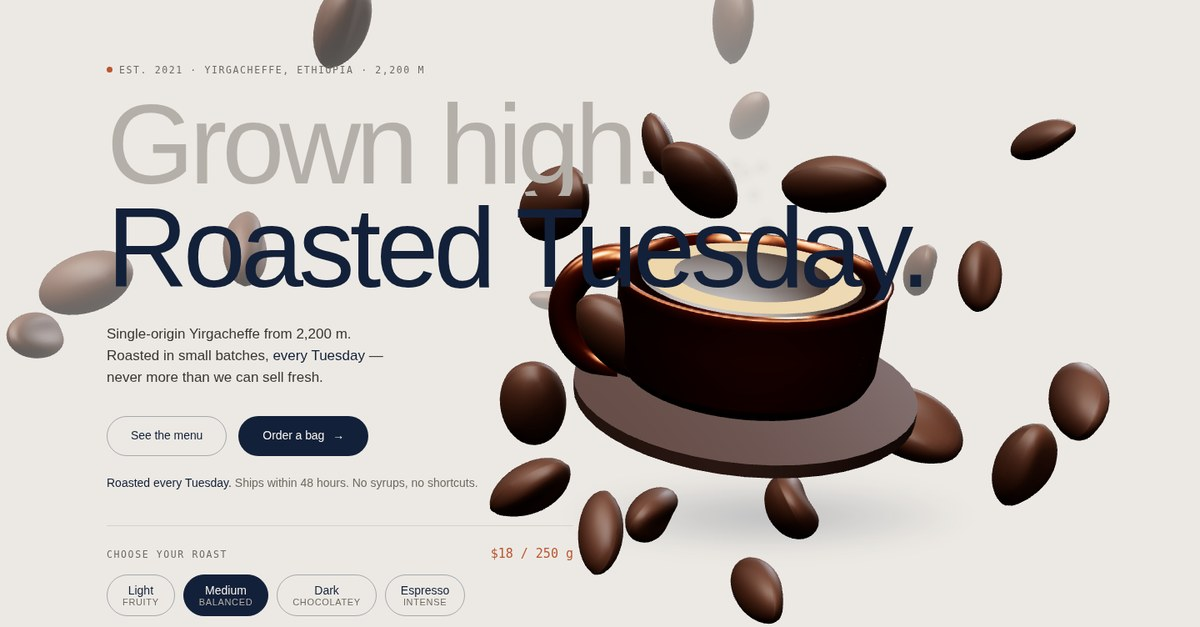
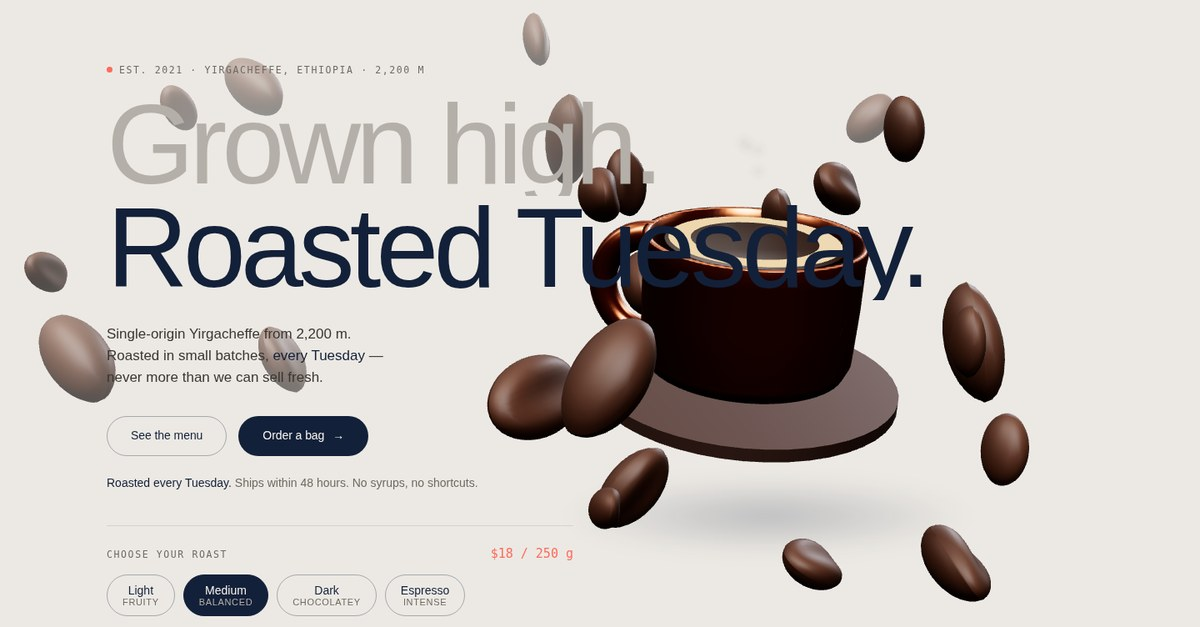
Aurora Coffee v9.1 — coral accent + taller mug + side-on macro + desktop carousel

diff --git a/index.html b/index.html
@@ -14,11 +14,11 @@
     <link rel="preconnect" href="https://fonts.gstatic.com" crossorigin />
     <link href="https://fonts.googleapis.com/css2?family=Inter:wght@400;500;600&family=JetBrains+Mono:wght@500&display=swap" rel="stylesheet" />
     <style>
-      /* Aurora Coffee v8 — light premium (MotionSites SkyElite + Claude design system).
-         60/30/10 COLOUR COMBINATION (Diego Aranda rule, Fahad's banner palette):
-         60% warm cream #ECE9E4 · 30% deep navy #132039 · 10% burnt copper #BC5530.
-         The navy is a real colour (not just black), the copper is the warm accent,
-         and the 3D mug IS the copper accent. */
+      /* Aurora Coffee v9 — light premium (MotionSites SkyElite + Claude design system).
+         60/30/10 COLOUR COMBINATION (Diego Aranda reel, Fahad's banner palette):
+         60% warm cream #ECE9E4 · 30% deep navy #132039 · 10% coral #FF6A5C.
+         The navy is a real colour (not just black), the coral is the warm accent.
+         The 3D mug is copper METAL (its material, not the UI accent). */
       :root {
         --bg: #ECE9E4;          /* 60% — warm cream field */
         --surface: #F5F3EF;     /* 60% — card / matted frame */
@@ -27,7 +27,7 @@
         --h1-dark: #132039;     /* 30% — deep navy (headline line 2, ink, dark panels) */
         --body: #3A352F;        /* 30% — body text */
         --muted: #6F6962;       /* 30% — eyebrows, captions */
-        --accent: #BC5530;      /* 10% — burnt copper, the warm accent */
+        --accent: #FF6A5C;      /* 10% — coral (Diego Aranda reel / Fahad's banner palette) */
         --line: #D6D1C9;        /* hairlines */
         --line-strong: #C4BEB4;
         --btn-solid: #132039;   /* 30% — deep navy solid buttons */
@@ -179,9 +179,9 @@
          sideways (scroll-snap) and the card nearest the centre grows. */
       .beans-row { display: flex; gap: 20px; margin-top: 56px; overflow-x: auto; scroll-snap-type: x mandatory; padding: 8px 4px 24px; scrollbar-width: none; -webkit-overflow-scrolling: touch; }
       .beans-row::-webkit-scrollbar { display: none; }
-      .bean-card { background: var(--surface); border: 1px solid var(--line); border-radius: 24px; padding: 28px; flex: 0 0 300px; scroll-snap-align: center; transition: transform 500ms var(--ease-hover), box-shadow 500ms var(--ease-hover), border-color 500ms var(--ease-hover); }
+      .bean-card { background: var(--surface); border: 1px solid var(--line); border-radius: 24px; padding: 28px; flex: 0 0 340px; scroll-snap-align: center; transition: transform 500ms var(--ease-hover), box-shadow 500ms var(--ease-hover), border-color 500ms var(--ease-hover); }
       .bean-card.is-centre { transform: scale(1.04); box-shadow: 0 24px 48px -24px rgba(19, 32, 57, 0.35); border-color: rgba(19, 32, 57, 0.35); }
-      .beans-row .photo-frame { flex: 0 0 300px; scroll-snap-align: center; }
+      .beans-row .photo-frame { flex: 0 0 340px; scroll-snap-align: center; }
       .carousel-dots { display: flex; justify-content: center; gap: 8px; margin-top: 4px; }
       .carousel-dots .dot { width: 6px; height: 6px; border-radius: 50%; background: var(--line-strong); transition: background 400ms var(--ease-out), transform 400ms var(--ease-out); }
       .carousel-dots .dot.on { background: var(--accent); transform: scale(1.4); }
@@ -524,39 +524,41 @@
         scene.add(rim);
         scene.add(new THREE.HemisphereLight(0xFFFFFF, 0xCFC6BA, 0.35));
 
-        /* ---- The mug — METAL copper (not ceramic), huge and side-on ---- */
+        /* ---- The mug — METAL copper (not ceramic), huge and side-on.
+           v9.1: TALLER and NARROWER (was 0.58 tall / 1.48 wide — read as a bowl
+           from the top-down macro view). Now 0.75 tall / 1.20 wide — a proper mug. ---- */
         var cupGroup = new THREE.Group();
         var ceramic = new THREE.MeshPhysicalMaterial({ color: 0xB8683F, metalness: 1, roughness: 0.28, clearcoat: 0.3, clearcoatRoughness: 0.2, envMapIntensity: 1.2 });
         var cupPts = [
-          [0.0, 0.0], [0.55, 0.0], [0.68, 0.03], [0.71, 0.10], [0.72, 0.35], [0.72, 0.52],
-          [0.74, 0.58], [0.70, 0.58], [0.68, 0.50], [0.66, 0.25], [0.60, 0.10], [0.45, 0.06], [0.0, 0.06]
+          [0.0, 0.0], [0.46, 0.0], [0.55, 0.03], [0.58, 0.10], [0.59, 0.40], [0.59, 0.65],
+          [0.60, 0.75], [0.56, 0.75], [0.54, 0.65], [0.52, 0.35], [0.48, 0.12], [0.38, 0.08], [0.0, 0.08]
         ].map(function (p) { return new THREE.Vector2(p[0], p[1]); });
         cupGroup.add(new THREE.Mesh(new THREE.LatheGeometry(cupPts, 64), ceramic));
 
         var coaster = new THREE.Mesh(
-          new THREE.CylinderGeometry(0.95, 0.95, 0.07, 48),
+          new THREE.CylinderGeometry(0.85, 0.85, 0.07, 48),
           new THREE.MeshStandardMaterial({ color: 0x3B2620, roughness: 0.7 })
         );
         coaster.position.y = -0.10;
         cupGroup.add(coaster);
 
         var coffeeMat = new THREE.MeshStandardMaterial({ color: 0x2B1A12, roughness: 0.15 });
-        var coffee = new THREE.Mesh(new THREE.CircleGeometry(0.60, 48), coffeeMat);
+        var coffee = new THREE.Mesh(new THREE.CircleGeometry(0.48, 48), coffeeMat);
         coffee.rotation.x = -Math.PI / 2;
-        coffee.position.y = 0.55;
+        coffee.position.y = 0.72;
         cupGroup.add(coffee);
 
         var crema = new THREE.Mesh(
-          new THREE.RingGeometry(0.42, 0.58, 48),
+          new THREE.RingGeometry(0.34, 0.46, 48),
           new THREE.MeshStandardMaterial({ color: 0xD9A05B, roughness: 0.5 })
         );
         crema.rotation.x = -Math.PI / 2;
-        crema.position.y = 0.56;
+        crema.position.y = 0.73;
         cupGroup.add(crema);
 
-        var handle = new THREE.Mesh(new THREE.TorusGeometry(0.32, 0.09, 14, 32, Math.PI), ceramic);
+        var handle = new THREE.Mesh(new THREE.TorusGeometry(0.30, 0.08, 14, 32, Math.PI), ceramic);
         handle.rotation.z = -Math.PI / 2;
-        handle.position.set(0.70, 0.28, 0);
+        handle.position.set(0.56, 0.38, 0);
         cupGroup.add(handle);
 
         /* Mug centre ~64% x, 56% y — huge (62vh), side-on, yaw -0.35 rad, handle right. */
@@ -763,7 +765,7 @@
           var camPath = [
             { s: 0.00, px: 0.0, py: 0.9, pz: 7.5, lx: 0.8, ly: 0.2, lz: 0 },
             { s: 0.25, px: 1.0, py: 1.4, pz: 5.5, lx: 0.0, ly: 0.6, lz: -1 },
-            { s: 0.40, px: 1.4, py: 0.7, pz: 2.8, lx: 1.8, ly: 0.3, lz: -1 },
+            { s: 0.40, px: 1.4, py: 0.25, pz: 3.0, lx: 1.8, ly: 0.0, lz: -1 },
             { s: 0.60, px: -0.8, py: 1.8, pz: 4.5, lx: 0.5, ly: 0.8, lz: -2 },
             { s: 0.80, px: 0.5, py: 2.0, pz: 6.0, lx: 0.0, ly: 0.4, lz: -1 },
             { s: 1.00, px: 1.2, py: 1.1, pz: 7.0, lx: 1.8, ly: 0.0, lz: -1 }
